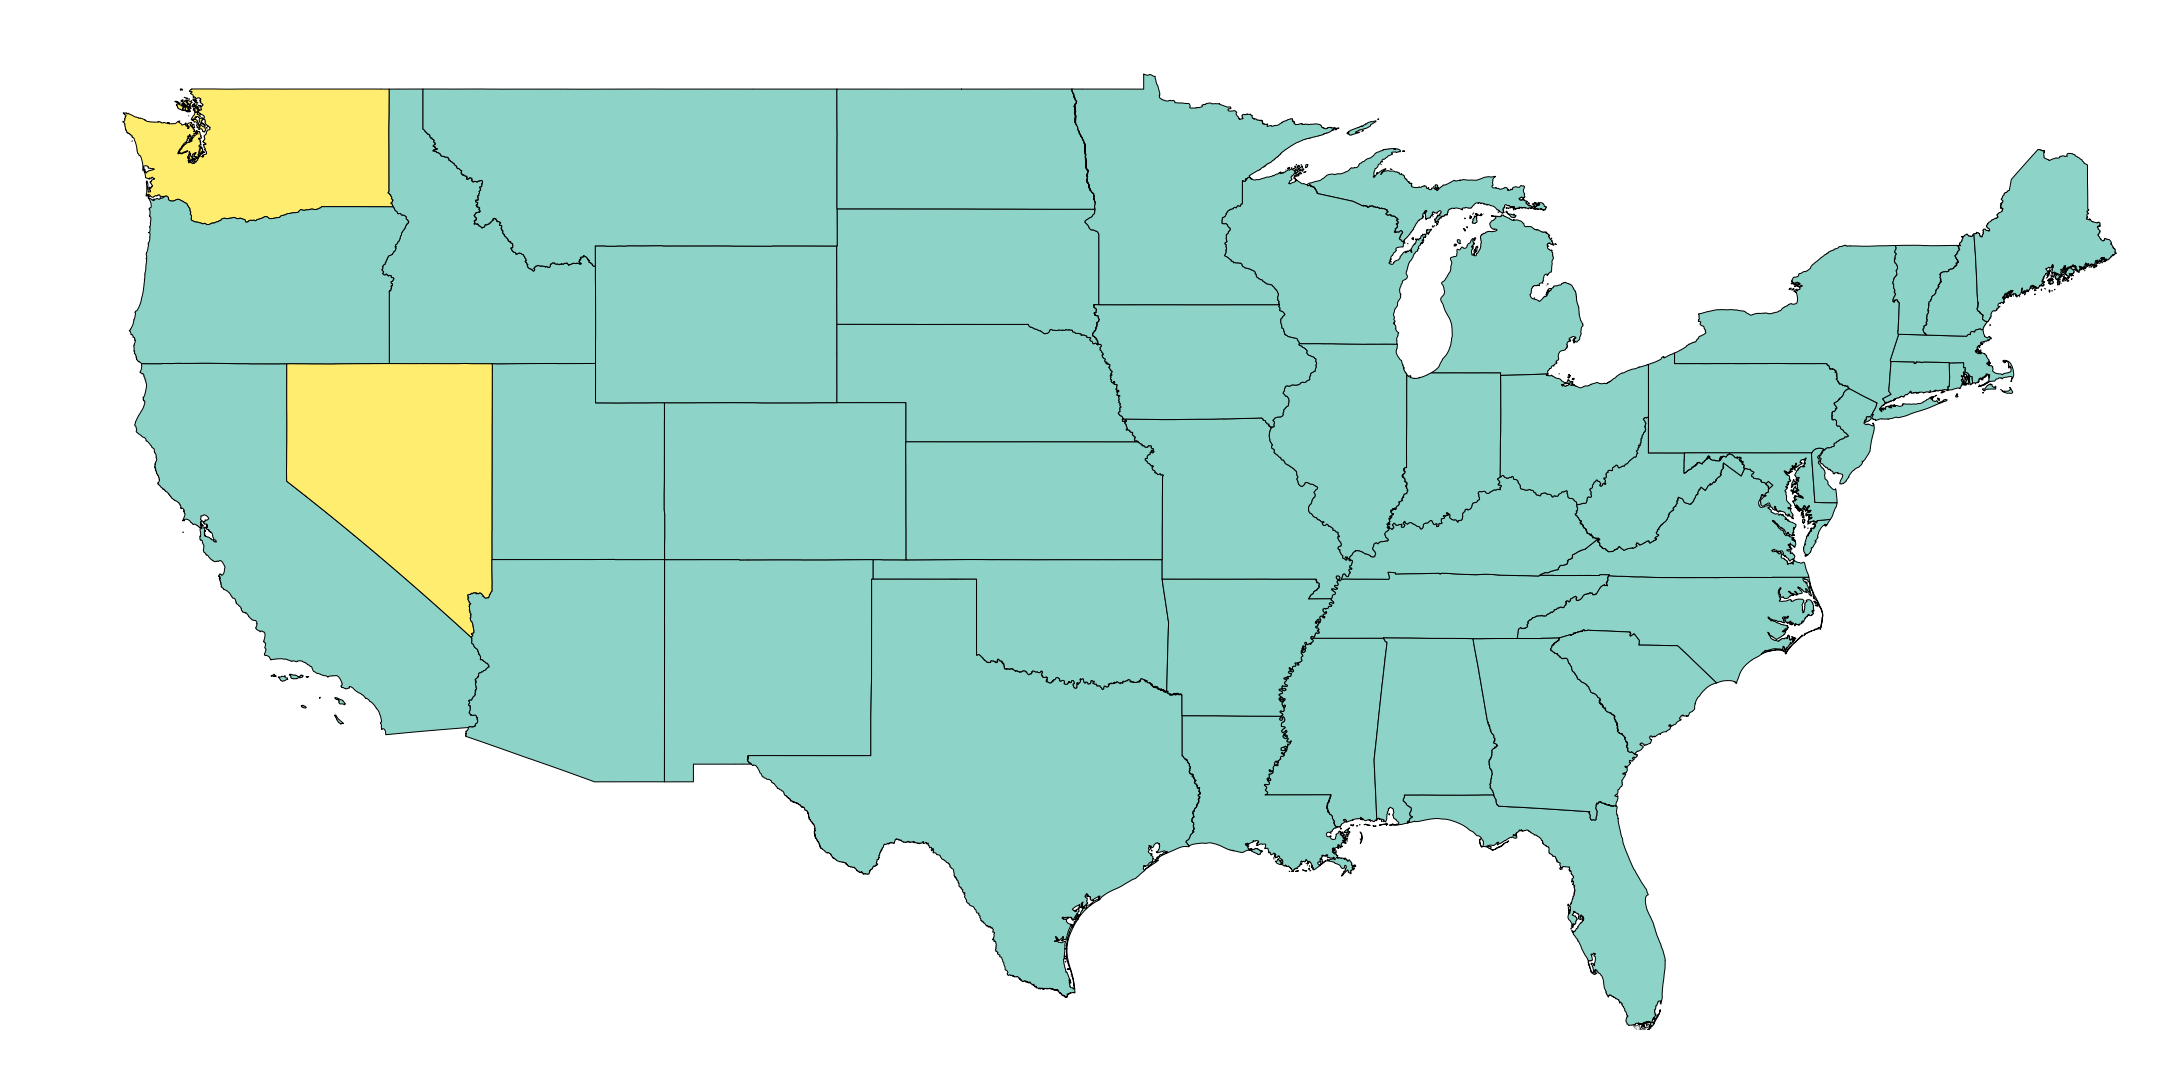
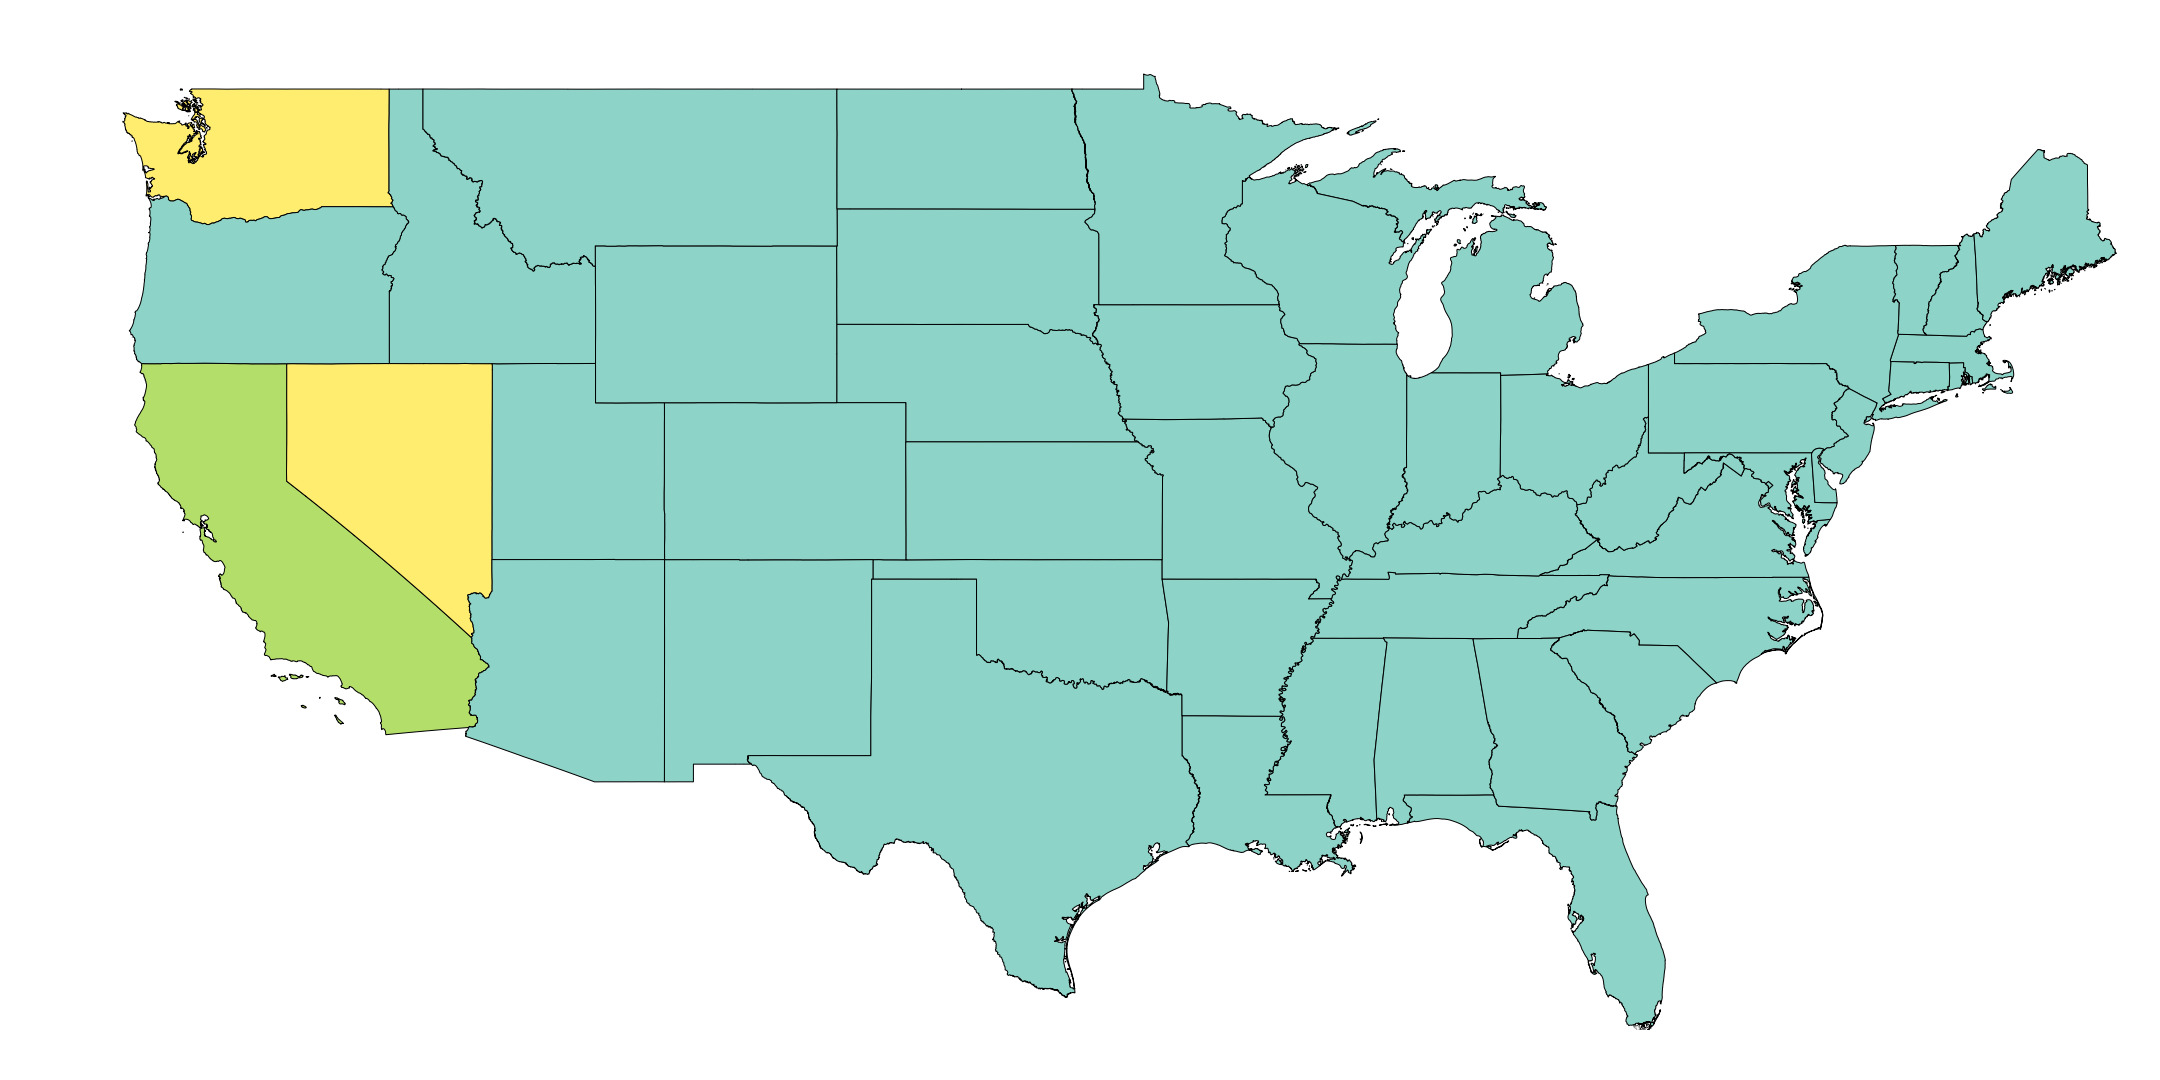
Updated readme map

Changed region(s): [[0.062, 0.3361, 0.2481, 0.7028]]

diff --git a/doc/readme_map/readme_map.py b/doc/readme_map/readme_map.py
@@ -3,15 +3,18 @@ Generate US map for readme that denotes state coverage
 """
 
 import geopandas as gpd
-import matplotlib.pyplot as plt
 
 #shp from https://www.census.gov/geographies/mapping-files/time-series/geo/carto-boundary-file.html
 
 fig = gpd.read_file("cb_2018_us_state_500k.shp")
 fig = fig.assign(COVERAGE=0)
 
-fig.loc[11, "COVERAGE"] = 1 #Washington
-fig.loc[28, "COVERAGE"] = 1 #Nevada
+# Covered
+fig.loc[11, "COVERAGE"] = 2 #Washington
+fig.loc[28, "COVERAGE"] = 2 #Nevada
+
+# In Design
+fig.loc[16, "COVERAGE"] = 1 #California
 
 map_states = fig.plot(figsize=(30, 15), column="COVERAGE", cmap="Set3", edgecolor='black')
 map_states.set_ylim([25, 50])
